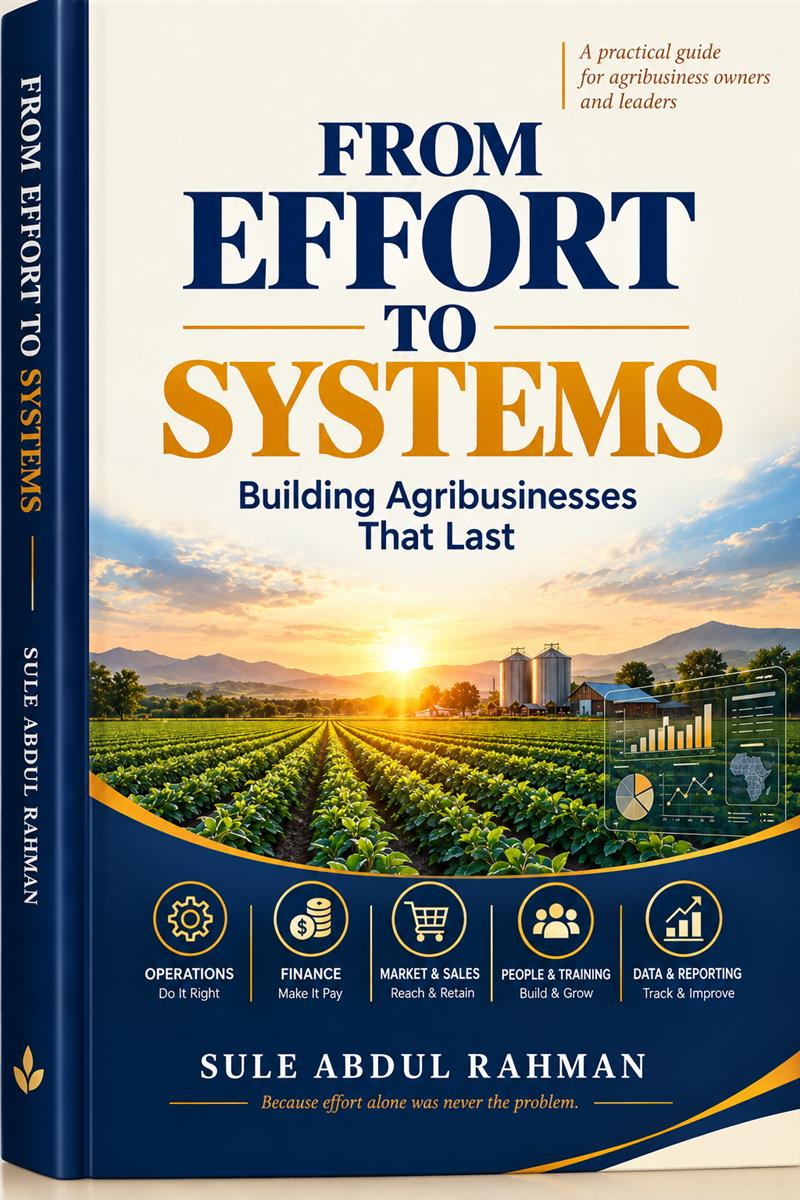
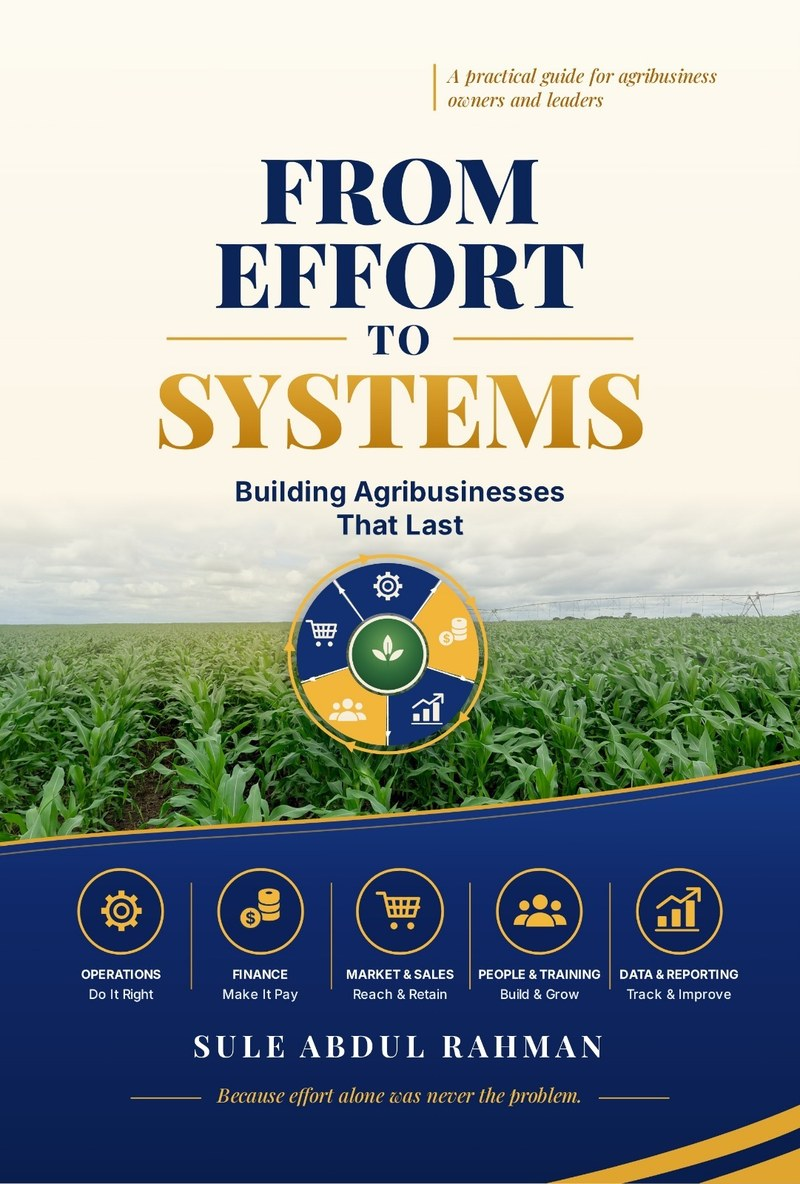
Replace the book cover with the final cover design
Updates the cover image and the link-preview image, and busts caches
so browsers and social apps fetch the new versions.

Claude-Session: https://claude.ai/code/session_01MVFcWJVfgUHbFRDW3x1Dkw

diff --git a/index.html b/index.html
@@ -11,7 +11,7 @@
 <meta property="og:title" content="Bando Books — Books and tools for people who build">
 <meta property="og:description" content="Bando Books publishes practical books, manuals, templates and training documents for people running businesses, teams and organisations in West Africa.">
 <meta property="og:url" content="https://bandobooks.com/">
-<meta property="og:image" content="https://bandobooks.com/assets/share.jpg">
+<meta property="og:image" content="https://bandobooks.com/assets/share.jpg?v=2">
 <meta property="og:image:width" content="1200">
 <meta property="og:image:height" content="630">
 <meta name="twitter:card" content="summary_large_image">
@@ -50,7 +50,7 @@
   ]
 }
 </script>
-<link rel="preload" as="image" href="assets/cover.jpg">
+<link rel="preload" as="image" href="assets/cover.jpg?v=2">
 <link rel="preconnect" href="https://fonts.googleapis.com">
 <link rel="stylesheet" href="https://fonts.googleapis.com/css2?family=Fraunces:opsz,wght@9..144,400;9..144,600;9..144,700&family=Inter:wght@400;500;600&display=swap">
 <style>
@@ -90,7 +90,7 @@ nav a{text-decoration:none;color:var(--ink-2)} nav a:hover{color:var(--ink)}
 .btn:focus-visible,input:focus-visible,.chip:focus-visible{outline:2px solid var(--laterite);outline-offset:2px}
 .book{justify-self:center;width:min(260px,100%)}
 .book a{display:block}
-.cover{display:block;width:100%;height:auto;aspect-ratio:2/3}
+.cover{display:block;width:100%;height:auto;border-radius:3px;box-shadow:0 18px 36px rgba(27,27,27,.22)}
 .colophon{margin-top:22px;font-size:12px;color:var(--ink-2);display:grid;grid-template-columns:auto 1fr;gap:2px 12px;font-variant-numeric:tabular-nums}
 section{padding-block:64px;border-top:1px solid var(--rule)}
 .head{display:flex;justify-content:space-between;align-items:end;gap:24px;flex-wrap:wrap;margin-bottom:28px}
@@ -157,7 +157,7 @@ footer .wrap{padding-block:32px;border-top:1px solid var(--rule);display:flex;ju
   </div>
   <div class="book">
     <a href="https://suleabdulrahman.org/" aria-label="From Effort to Systems on the author's site">
-      <img class="cover" src="assets/cover.jpg" width="800" height="1200" fetchpriority="high"
+      <img class="cover" src="assets/cover.jpg?v=2" width="800" height="1184" fetchpriority="high"
            alt="Cover of From Effort to Systems: Building Agribusinesses That Last, by Sule Abdul Rahman">
     </a>
     <div class="colophon">
